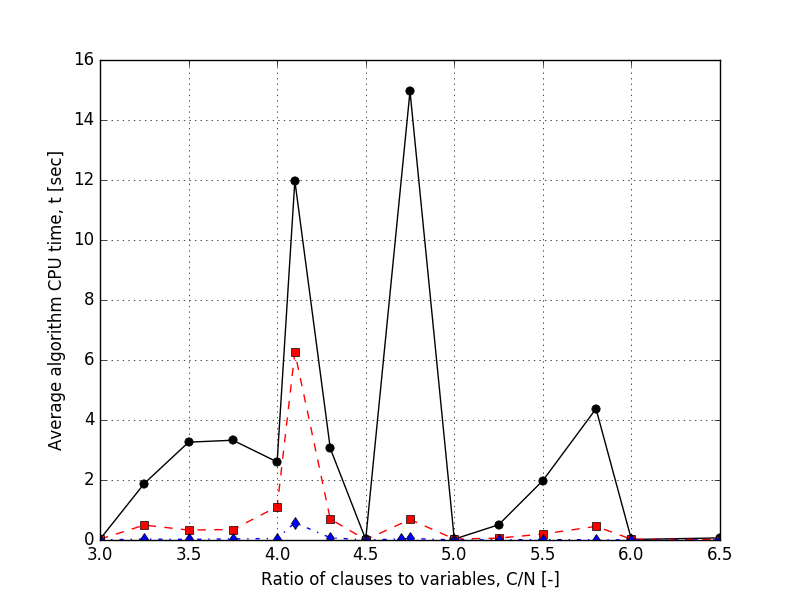
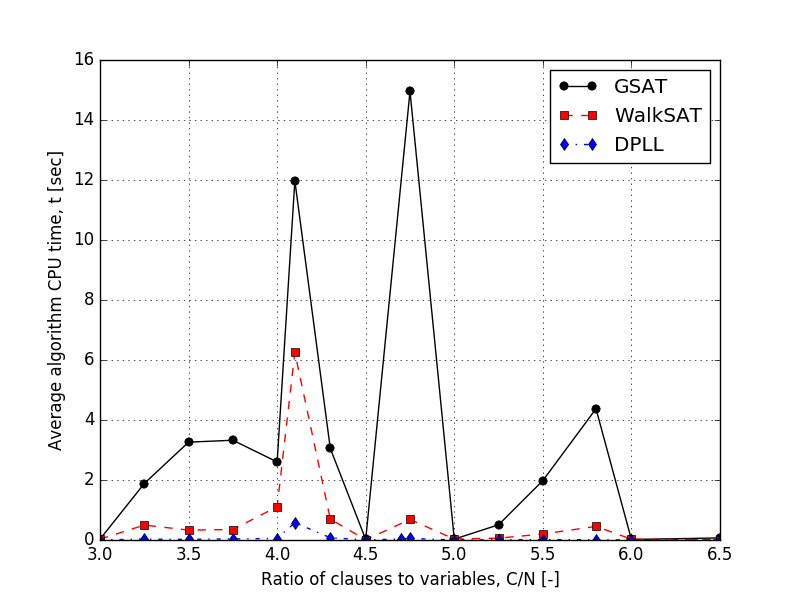
Updated plot

Changed region(s): [[0.6875, 0.09, 0.9062, 0.3]]

diff --git a/SAT.py b/SAT.py
@@ -106,18 +106,19 @@ print('Plotting ...')
 plt.figure(1)
 x = [key for key in list(zip(*sorted(GSATdata.items())))[0]]
 y = [mean(value) for value in list(zip(*sorted(GSATdata.items())))[1]]
-plt.plot(x,y,'ok-')
+plt.plot(x,y,'ok-',label='GSAT')
 
 x = [key for key in list(zip(*sorted(WalkSATdata.items())))[0]]
 y = [mean(value) for value in list(zip(*sorted(WalkSATdata.items())))[1]]
-plt.plot(x,y,'sr--')
+plt.plot(x,y,'sr--',label='WalkSAT')
 
 x = [key for key in list(zip(*sorted(DPLLdata.items())))[0]]
 y = [mean(value) for value in list(zip(*sorted(DPLLdata.items())))[1]]
-plt.plot(x,y,'db-.')
+plt.plot(x,y,'db-.',label='DPLL')
 
 plt.xlabel('Ratio of clauses to variables, C/N [-]')
 plt.ylabel('Average algorithm CPU time, t [sec]')
+plt.legend(loc='upper right')
 plt.grid(True)
 plt.show()
 
